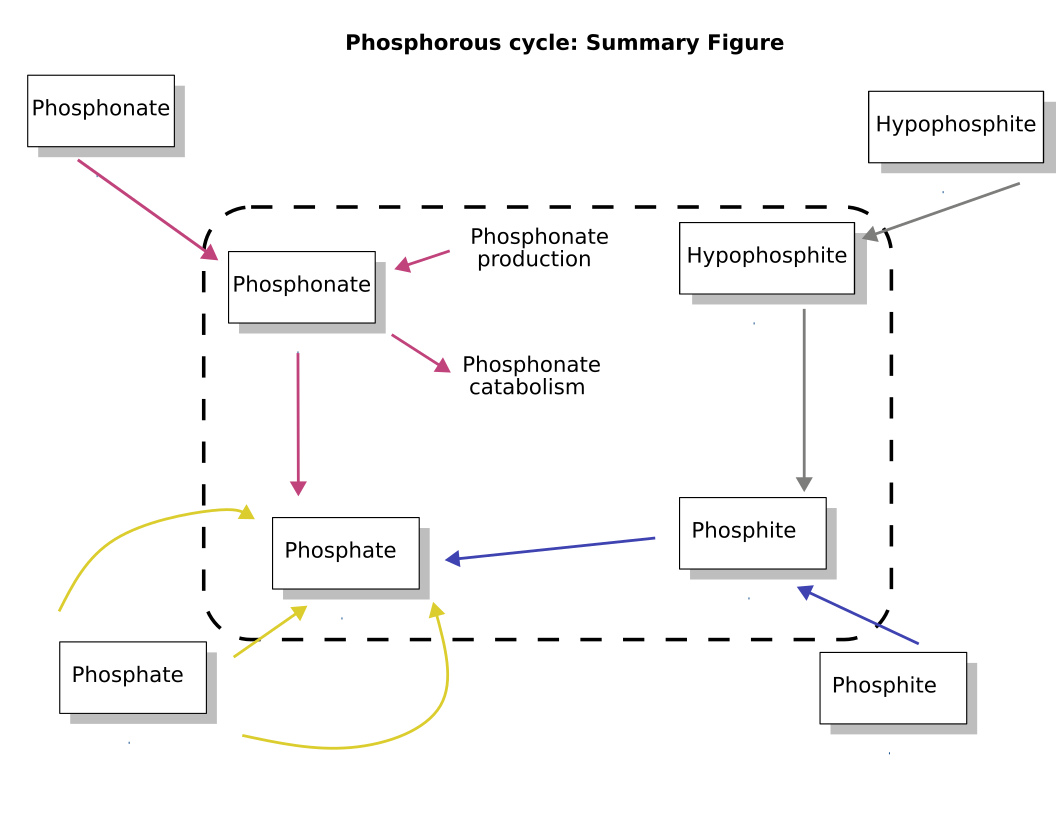
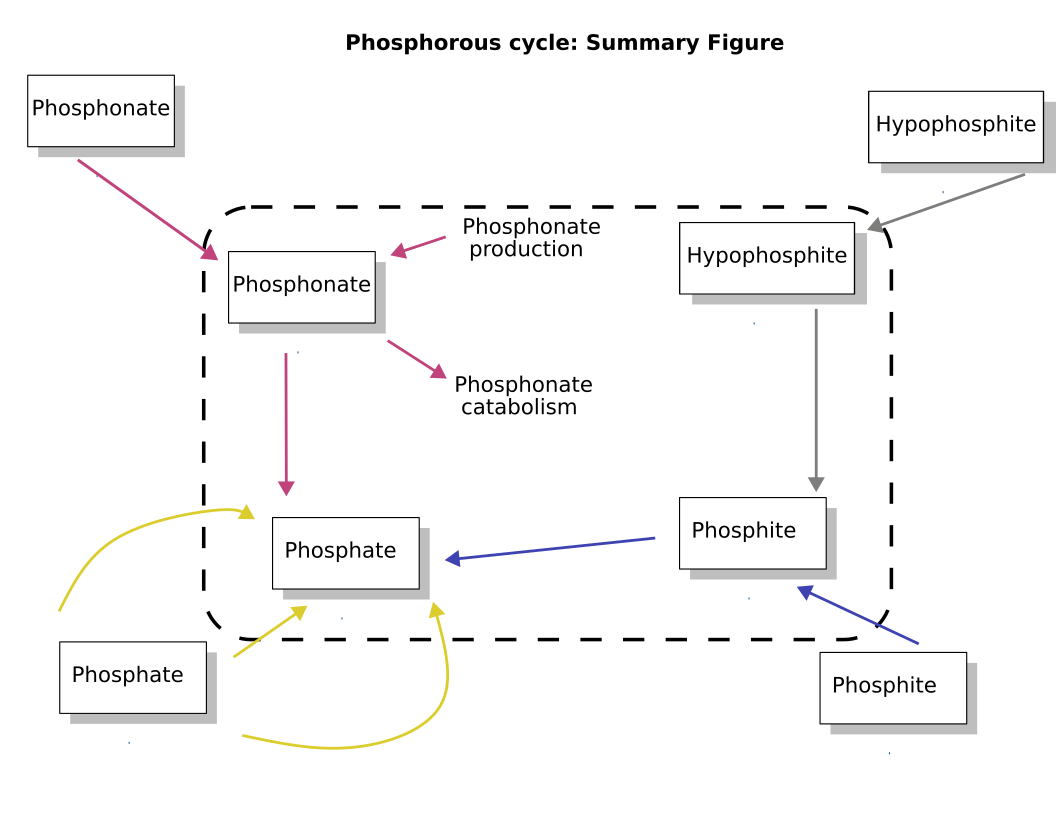
Update phosphorous diagram.

diff --git a/bigecyhmm/diagram_cycles.py b/bigecyhmm/diagram_cycles.py
@@ -369,13 +369,13 @@ def create_phosphorous_cycle(diagram_data, output_file):
     data_step_10 = diagram_data['P-S-10:Phosphonate production']
     data_step_11 = diagram_data['P-S-11:Phosphonate catabolism']
 
-    imgdraw.text((100,200), 'PhnD\nGenomes: {0}\nCoverage: {1}%'.format(data_step_01[0], data_step_01[1]), (193,67,124), font=font)
+    imgdraw.text((30,210), 'PhnD\nGenomes: {0}\nCoverage: {1}%'.format(data_step_01[0], data_step_01[1]), (193,67,124), font=font)
     imgdraw.text((300,375), 'C-P lyase\nGenomes: {0}\nCoverage: {1}%'.format(data_step_02[0], data_step_02[1]), (193,67,124), font=font)
     imgdraw.text((75,425), 'PitA\nGenomes: {0}\nCoverage: {1}%'.format(data_step_03[0], data_step_03[1]), (219,205,46), font=font)
     imgdraw.text((245,645), 'PstS\nGenomes: {0}\nCoverage: {1}%'.format(data_step_04[0], data_step_04[1]), (219,205,46), font=font)
     imgdraw.text((450,655), 'PNaS\nGenomes: {0}\nCoverage: {1}%'.format(data_step_05[0], data_step_05[1]), (219,205,46), font=font)
-    imgdraw.text((900,200), 'HtxB\nGenomes: {0}\nCoverage: {1}%'.format(data_step_06[0], data_step_06[1]), (125,125,124), font=font)
-    imgdraw.text((680,350), 'HtxA\nGenomes: {0}\nCoverage: {1}%'.format(data_step_07[0], data_step_07[1]), (125,125,124), font=font)
+    imgdraw.text((900,220), 'HtxB\nGenomes: {0}\nCoverage: {1}%'.format(data_step_06[0], data_step_06[1]), (125,125,124), font=font)
+    imgdraw.text((640,350), 'HtxA\nGenomes: {0}\nCoverage: {1}%'.format(data_step_07[0], data_step_07[1]), (125,125,124), font=font)
     imgdraw.text((500,460), 'PtxD\nGenomes: {0}\nCoverage: {1}%'.format(data_step_08[0], data_step_08[1]), (62,67,177), font=font)
     imgdraw.text((900,550), 'PtxB\nGenomes: {0}\nCoverage: {1}%'.format(data_step_09[0], data_step_09[1]), (62,67,177), font=font)
     imgdraw.text((380,125), 'Production\nGenomes: {0}\nCoverage: {1}%'.format(data_step_10[0], data_step_10[1]), (193,67,124), font=font)

diff --git a/bigecyhmm/__init__.py b/bigecyhmm/__init__.py
@@ -13,4 +13,4 @@
 # You should have received a copy of the GNU General Public License
 # along with this program. If not, see <http://www.gnu.org/licenses/>
 
-__version__ = '0.1.5'
+__version__ = '0.1.6'

diff --git a/README.md b/README.md
@@ -197,3 +197,7 @@ Jeremy D. Selengut, Daniel H. Haft, Tanja Davidsen, Anurhada Ganapathy, Michelle
 - the following article for Pfam HMMs:
 
 Robert D. Finn, Alex Bateman, Jody Clements, Penelope Coggill, Ruth Y. Eberhardt, Sean R. Eddy, Andreas Heger, Kirstie Hetherington, Liisa Holm, Jaina Mistry, Erik L. L. Sonnhammer, John Tate, Marco Punta, Pfam: the protein families database, Nucleic Acids Research, Volume 42, Issue D1, 1 January 2014, Pages D222–D230, https://doi.org/10.1093/nar/gkt1223
+
+- the following article for phosphorous cycle:
+
+Boden, J.S., Zhong, J., Anderson, R.E. et al. Timing the evolution of phosphorus-cycling enzymes through geological time using phylogenomics. Nature Communications, 15, 3703 (2024). https://doi.org/10.1038/s41467-024-47914-0
